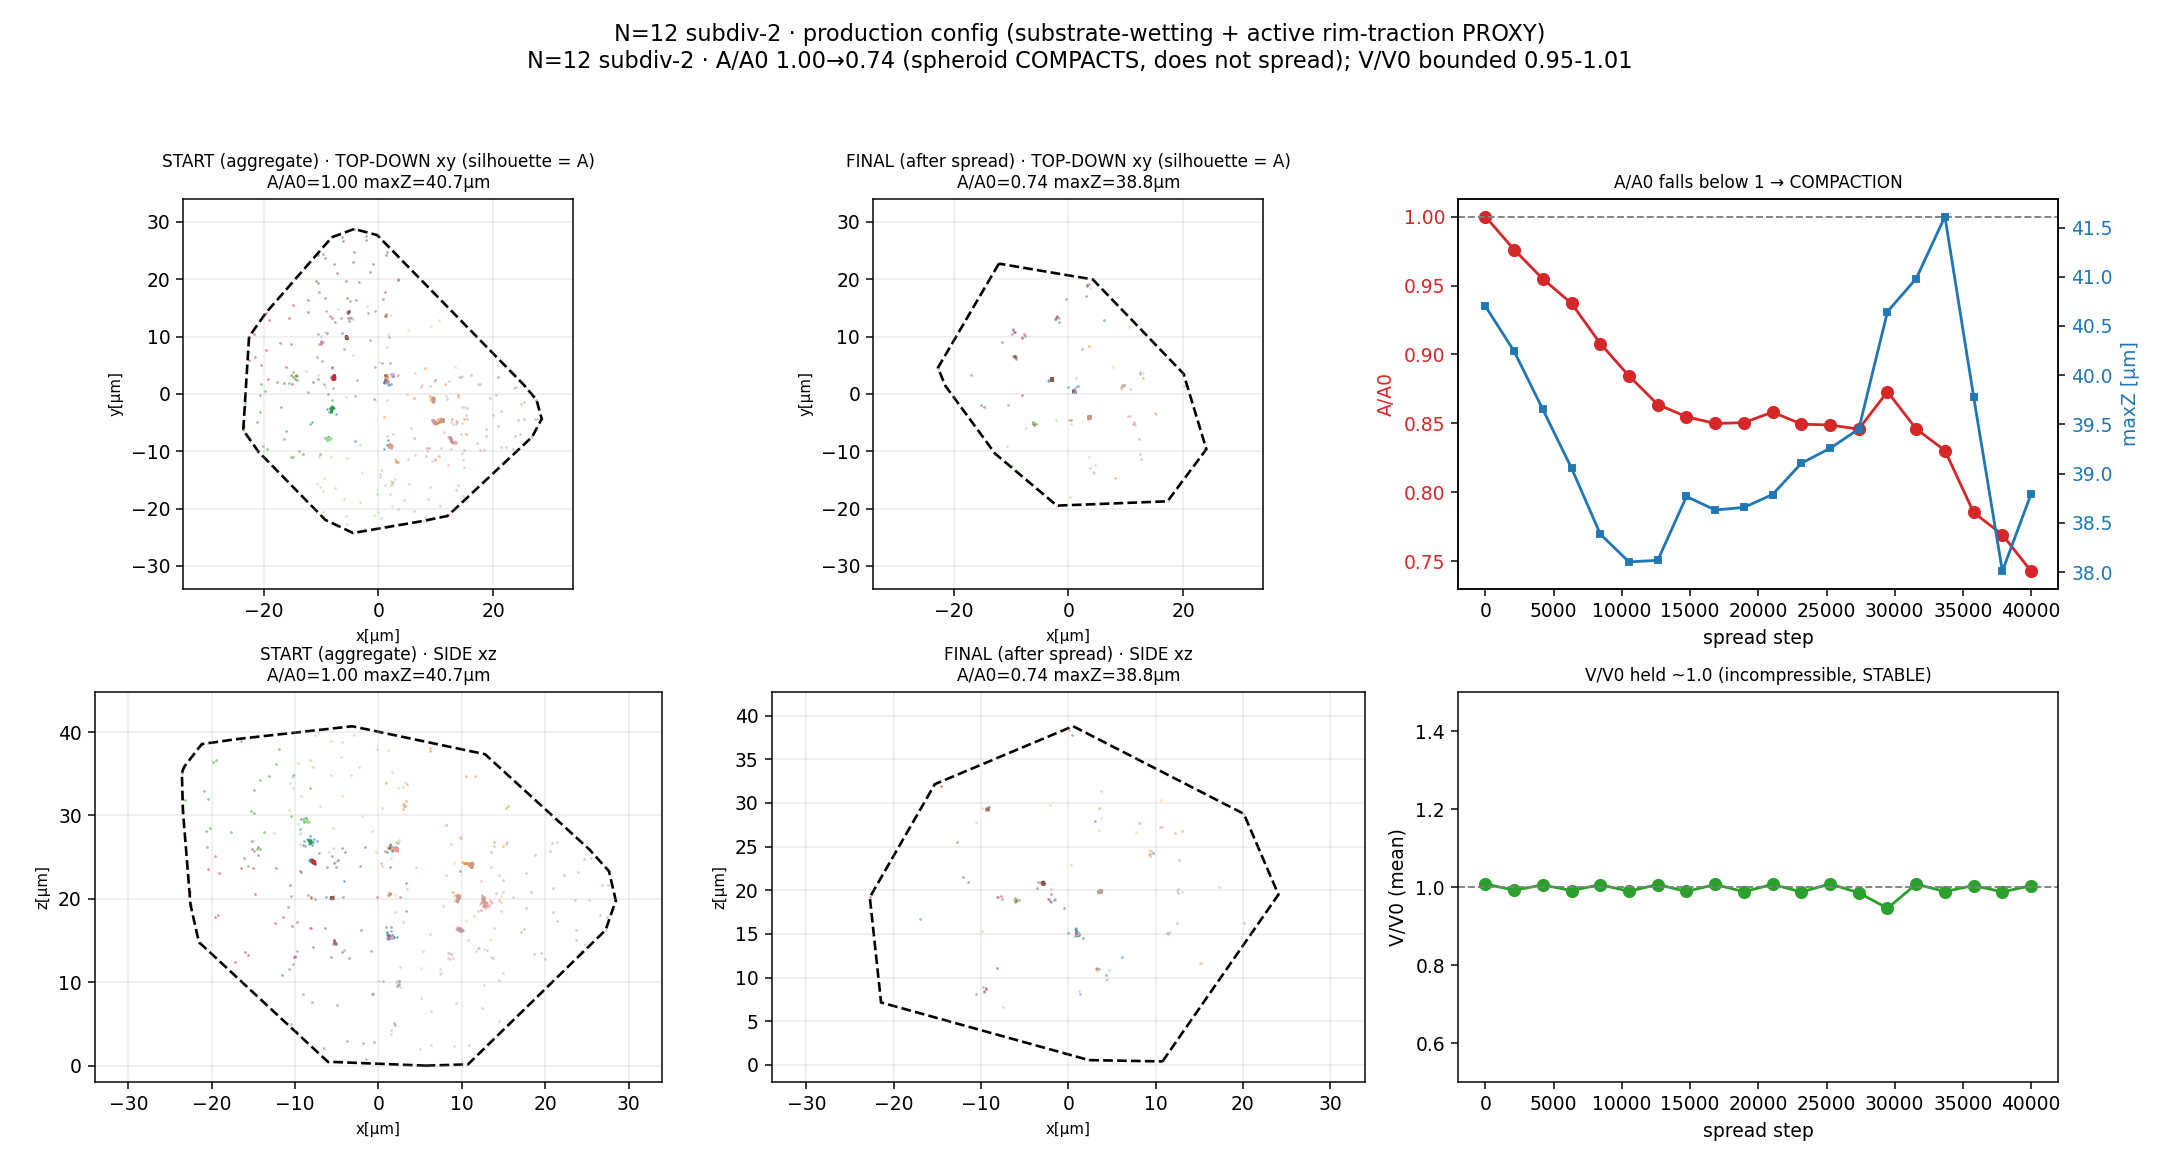
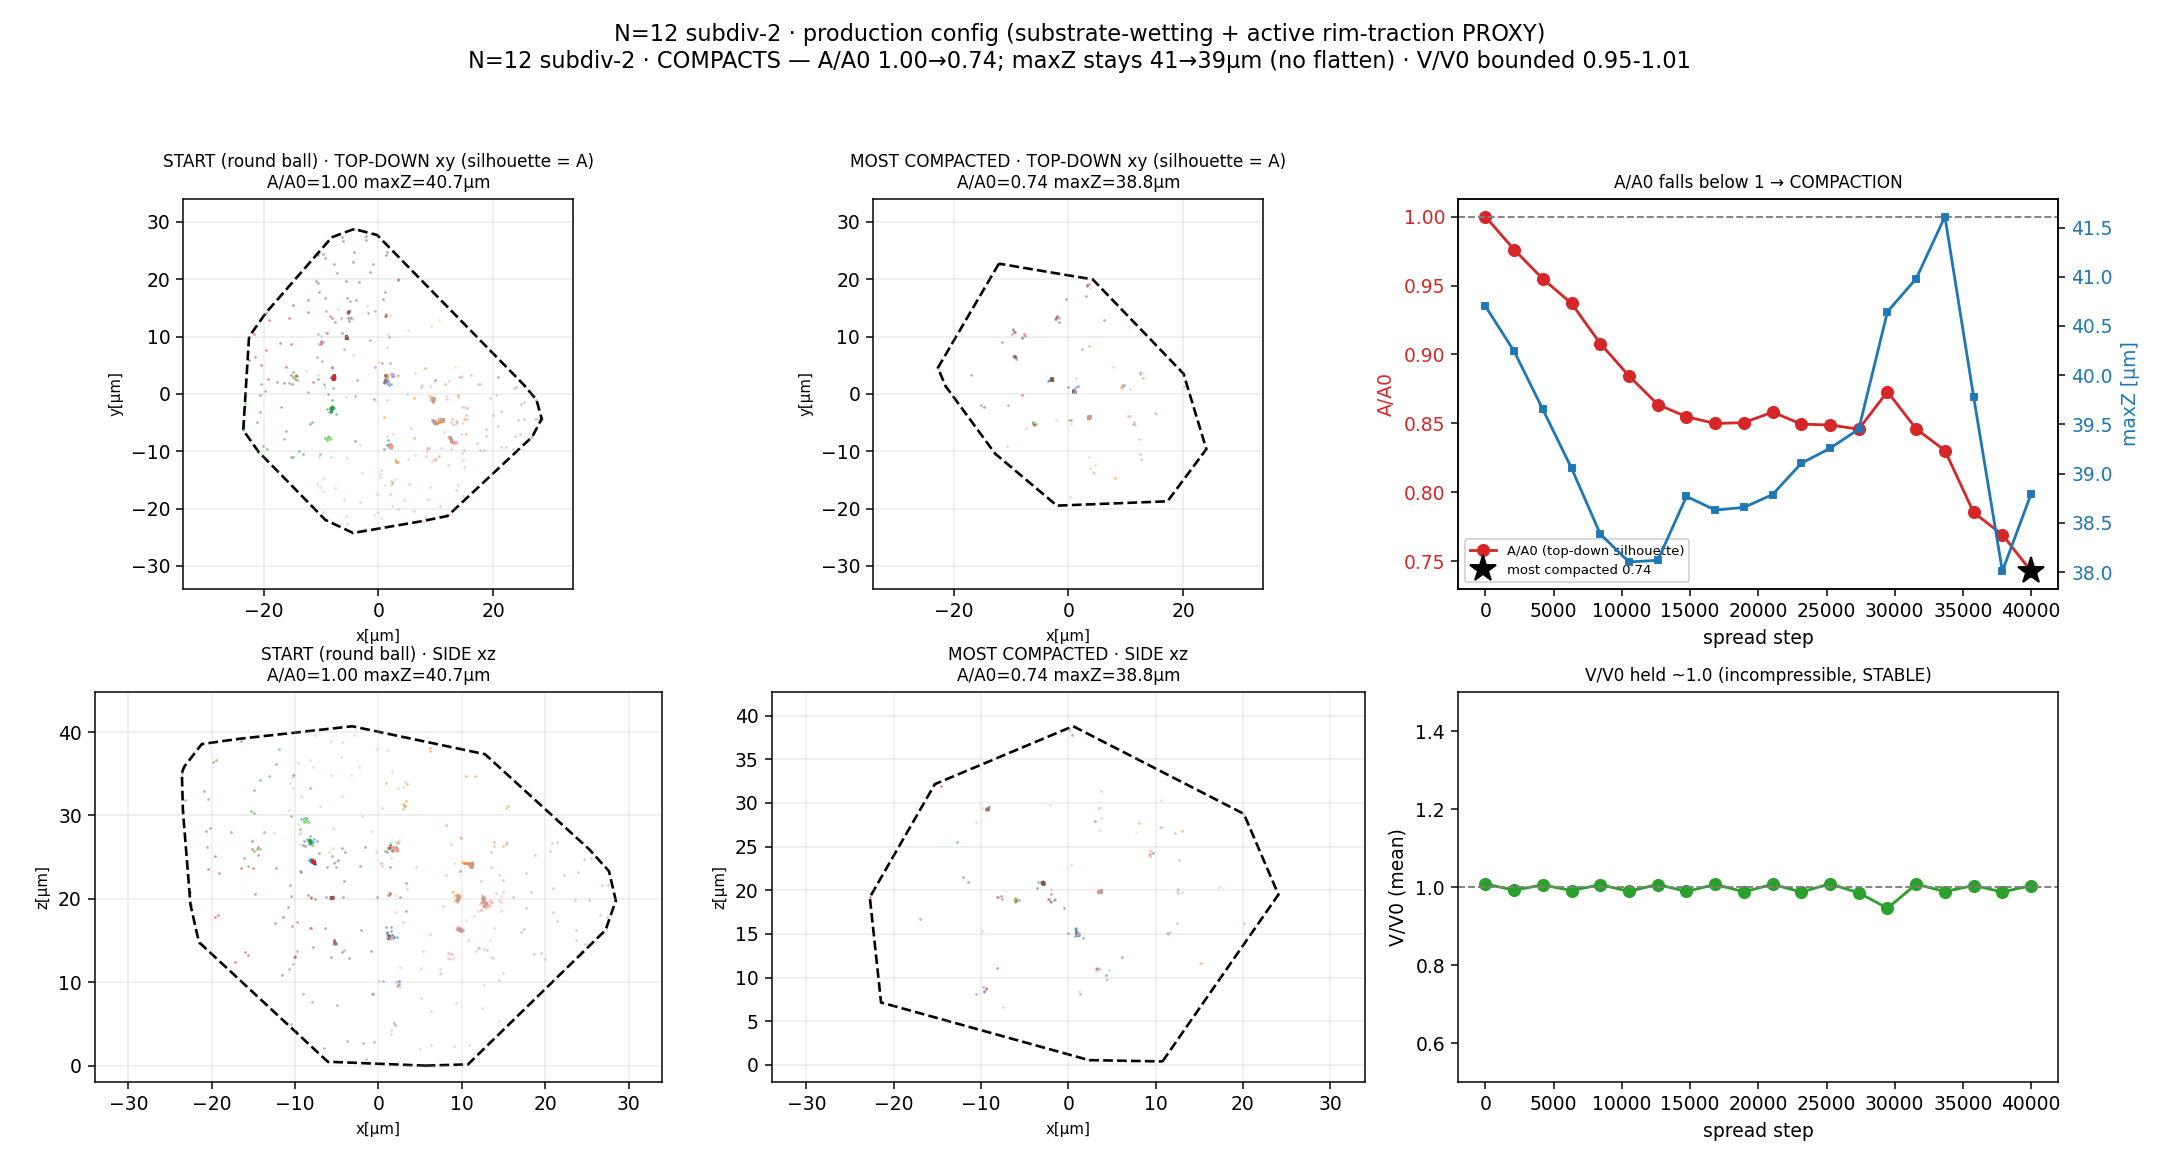
DCM: fix spread-viz hardcoded COMPACTS labels -> data-driven (was mislabeling the clean-ball SPREAD figure as compaction)
The compaction-viz suptitle + curve-panel title hardcoded 'spheroid COMPACTS, does
not spread' / 'A/A0 falls below 1 -> COMPACTION'. Reusing it for the clean-ball SPREAD
run produced a figure whose own labels CONTRADICTED the data (A/A0 rose to 1.87). Now:
verdict is data-driven (SPREADS if A/A0>1.1 else COMPACTS), the 'after' panel shows the
EXTREME frame (peak-spread, or most-compacted), and the peak/min is starred on the
A/A0 curve. Re-rendered all three N=12 figures.

diff --git a/ffn_sim/scripts/dcm_spread_compaction_viz.py b/ffn_sim/scripts/dcm_spread_compaction_viz.py
@@ -89,7 +89,6 @@ def main():
         fr = np.asarray(fr).copy()
         c = fr[:nmem].mean(0); c[2] = 0.0
         return fr - c
-    f_start, f_end = _recenter(frames[0]), _recenter(frames[-1])
     A0 = s2.get("A0_topdown_um2") or diags[0]["topdown_um2"]
     aa = np.array([g["topdown_um2"] / A0 for g in diags])
     mz = np.array([g["maxZ_um"] for g in diags])
@@ -97,23 +96,39 @@ def main():
     cen = np.array([0.0, 0.0, 0.0])
     h = args.xy_um
 
+    # DATA-DRIVEN verdict: spreads if A/A0 ever exceeds ~1.1; the "after" panel shows
+    # the EXTREME state (max spread, or most compacted), not the relaxed last frame.
+    spreads = float(aa.max()) > 1.10
+    if spreads:
+        iext = int(np.argmax(aa)); ext_tag = "PEAK SPREAD"
+        verdict = (f"SPREADS — A/A0 peak {aa.max():.2f} at step {int(steps[iext])} "
+                   f"(relaxes to {aa[-1]:.2f}); maxZ {mz[0]:.0f}→{mz[-1]:.0f}µm")
+        curve_title = "A/A0 rises above 1 → SPREADING (then relaxes)"
+    else:
+        iext = int(np.argmin(aa)); ext_tag = "MOST COMPACTED"
+        verdict = (f"COMPACTS — A/A0 {aa[0]:.2f}→{aa.min():.2f}; "
+                   f"maxZ stays {mz[0]:.0f}→{mz[-1]:.0f}µm (no flatten)")
+        curve_title = "A/A0 falls below 1 → COMPACTION"
+    f_start = _recenter(frames[0])
+    f_ext = _recenter(frames[iext])
+
     fig = plt.figure(figsize=(16, 8.6))
     views = [((0, 1), "TOP-DOWN xy (silhouette = A)"), ((0, 2), "SIDE xz")]
-    for col, (frame, tag) in enumerate([(f_start, "START (aggregate)"),
-                                        (f_end, "FINAL (after spread)")]):
+    for col, (frame, tag, idx) in enumerate([(f_start, "START (round ball)", 0),
+                                             (f_ext, ext_tag, iext)]):
         for row, (axes, vname) in enumerate(views):
             ax = fig.add_subplot(2, 3, row * 3 + col + 1)
-            aval = aa[0] if col == 0 else aa[-1]
-            mval = mz[0] if col == 0 else mz[-1]
             _draw2d(ax, frame, ranges, h, axes,
-                    f"{tag} · {vname}\nA/A0={aval:.2f} maxZ={mval:.1f}µm")
+                    f"{tag} · {vname}\nA/A0={aa[idx]:.2f} maxZ={mz[idx]:.1f}µm")
     # A/A0 + maxZ trajectory panel (spans the right column)
     axc = fig.add_subplot(2, 3, 3)
     axc.plot(steps, aa, "o-", color="C3", label="A/A0 (top-down silhouette)")
+    axc.plot(steps[iext], aa[iext], "*", color="k", ms=15,
+             label=f"{ext_tag.lower()} {aa[iext]:.2f}")
     axc.axhline(1.0, ls="--", color="0.5", lw=1)
     axc.set_xlabel("spread step"); axc.set_ylabel("A/A0", color="C3")
     axc.tick_params(axis="y", labelcolor="C3")
-    axc.set_title("A/A0 falls below 1 → COMPACTION", fontsize=9)
+    axc.set_title(curve_title, fontsize=9); axc.legend(fontsize=7, loc="best")
     ax2 = axc.twinx()
     ax2.plot(steps, mz, "s-", color="C0", label="maxZ [µm]", ms=3)
     ax2.set_ylabel("maxZ [µm]", color="C0"); ax2.tick_params(axis="y", labelcolor="C0")
@@ -124,9 +139,8 @@ def main():
     axd.set_xlabel("spread step"); axd.set_ylabel("V/V0 (mean)")
     axd.set_title("V/V0 held ~1.0 (incompressible, STABLE)", fontsize=9)
 
-    fig.suptitle(f"{args.title}\nN={len(ranges)} subdiv-2 · A/A0 {aa[0]:.2f}→{aa[-1]:.2f} "
-                 f"(spheroid COMPACTS, does not spread); V/V0 bounded {vv.min():.2f}-{vv.max():.2f}",
-                 fontsize=12)
+    fig.suptitle(f"{args.title}\nN={len(ranges)} subdiv-2 · {verdict} · "
+                 f"V/V0 bounded {vv.min():.2f}-{vv.max():.2f}", fontsize=12)
     fig.tight_layout(rect=(0, 0, 1, 0.94))
     p = OUT / args.out
     p.parent.mkdir(parents=True, exist_ok=True)
